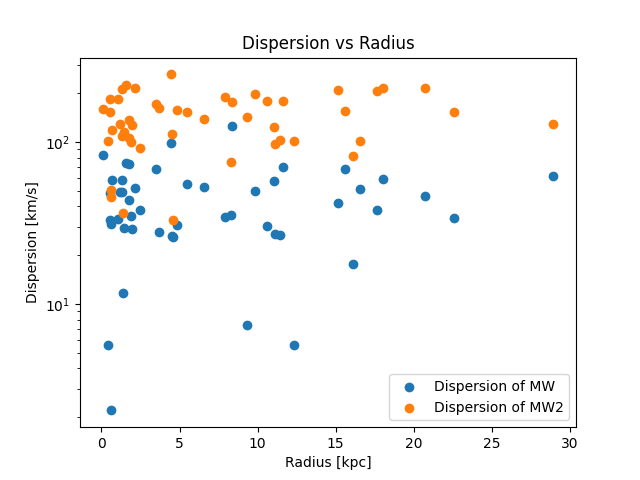
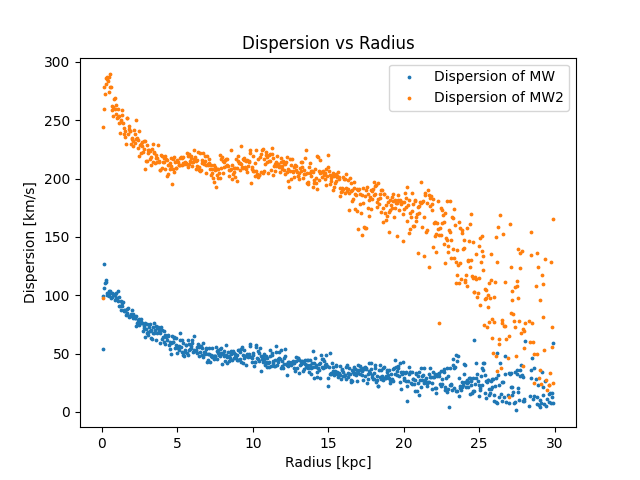
Fixed error in obtaining radius

diff --git a/Research_Assignment/ResearchAssignment3/VelocityDispersion.py b/Research_Assignment/ResearchAssignment3/VelocityDispersion.py
@@ -118,7 +118,7 @@ def Jacobi_Rad(snap, galaxy1, galaxy2):
 #Dispersion is calculated by:
                         #sigma = sqrt(1/N * sum((v_i - V_mean)^2))
                         #V_mean is the mean velocity within the shell
-def calculate_dispersion(snap,galaxy1, galaxy2,r=2.0):
+def calculate_dispersion(snap,galaxy1, galaxy2,r=2.0/50):
     '''
     This function
     input:
@@ -173,13 +173,18 @@ def calculate_dispersion(snap,galaxy1, galaxy2,r=2.0):
     radius_list = []
     i = 1
 
+    #We will go to the 'edge' of MW when the two galaxies are far apart
+    upper_rad = 30
+    if jacobi_radius < 30:
+        upper_rad = jacobi_radius
     #We will first iterate over all radius starting from the edge of the first shell until the edge of the jacobi radius
-    while radii[i] < jacobi_radius:
+    while radii[i] < upper_rad:
         current_radii = R.value #create a temporary list with R coordinates
         current_vel = vR.value #again temporary list of velocity coords
         current_vx = vx_new.value
         current_vy = vy_new.value
         current_vz = vz_new.value
+#        print(radii[i-1], radii[i])
 #        print(current_vel)
         index_low = np.where(current_radii >= radii[i-1]) #Finds an index for the lower edge of the shell
         current_radii = current_radii[index_low] #Gets rid of values from our list that are below this lower bound
@@ -194,10 +199,10 @@ def calculate_dispersion(snap,galaxy1, galaxy2,r=2.0):
         current_vx = current_vx[index_high]
         current_vy = current_vy[index_high]
         current_vz = current_vz[index_high]
-
+#        print(len(current_vel))
         #If our bounds didn't catch any particles this makes sure we don't have an error
         #It is mostly used far beyond the galaxy >30kpc for some rare cases
-        if len(current_vel) == 0: 
+        if len(current_vel) < 3: 
             i += 1
             continue
         #Now find avg velocity in this shell
@@ -206,6 +211,7 @@ def calculate_dispersion(snap,galaxy1, galaxy2,r=2.0):
         mean_Vy = np.sum(current_vy)/len(current_vy)
         mean_Vz = np.sum(current_vz)/len(current_vz)
 
+        
         #And calculate dispersion in this shell from the mean
         sqr_dif = 0
         sqr_difx = 0
@@ -231,7 +237,7 @@ def calculate_dispersion(snap,galaxy1, galaxy2,r=2.0):
         #Now add all of these values to the list
         dispersion_list.append(dispersion)
         dispersion2_list.append(dispersion2)
-        radius_list.append(R[i].value)
+        radius_list.append(radii[i])
 
         #continue iterating
         i += 1
@@ -253,12 +259,11 @@ Time_list =  Find_Timesteps('MW','M31')
 #On each of those snap numbers produce a plot that shows the dispersion vs the radius
 #for i in range(len(Time_list)):
 #    disp, disp2, rad = calculate_dispersion(Time_list[i], 'MW','M31')
-#
-#   fig = plt.figure()
-#    plt.scatter(rad,disp, label='Dispersion of MW')
-#    plt.scatter(rad,disp2, label='Dispersion of MW2')
+
+#    fig = plt.figure()
+#    plt.scatter(rad,disp, s=2, label='Dispersion of MW')
+#    plt.scatter(rad,disp2, s=3, label='Dispersion of MW2')
 #    plt.ylabel('Dispersion [km/s]')
-#    plt.semilogy() #looks nicer this way
 #    plt.xlabel('Radius [kpc]')
 #    plt.title('Dispersion vs Radius')
 #    plt.legend()
@@ -267,10 +272,9 @@ Time_list =  Find_Timesteps('MW','M31')
 #Only want to save a plot of one of them
 disp, disp2, rad = calculate_dispersion(Time_list[0], 'MW','M31')
 fig = plt.figure()
-plt.scatter(rad,disp, label='Dispersion of MW')
-plt.scatter(rad,disp2, label='Dispersion of MW2')
+plt.scatter(rad,disp, s=3, label='Dispersion of MW')
+plt.scatter(rad,disp2, s=3, label='Dispersion of MW2')
 plt.ylabel('Dispersion [km/s]')
-plt.semilogy() #looks nicer this way
 plt.xlabel('Radius [kpc]')
 plt.title('Dispersion vs Radius')
 plt.legend()
